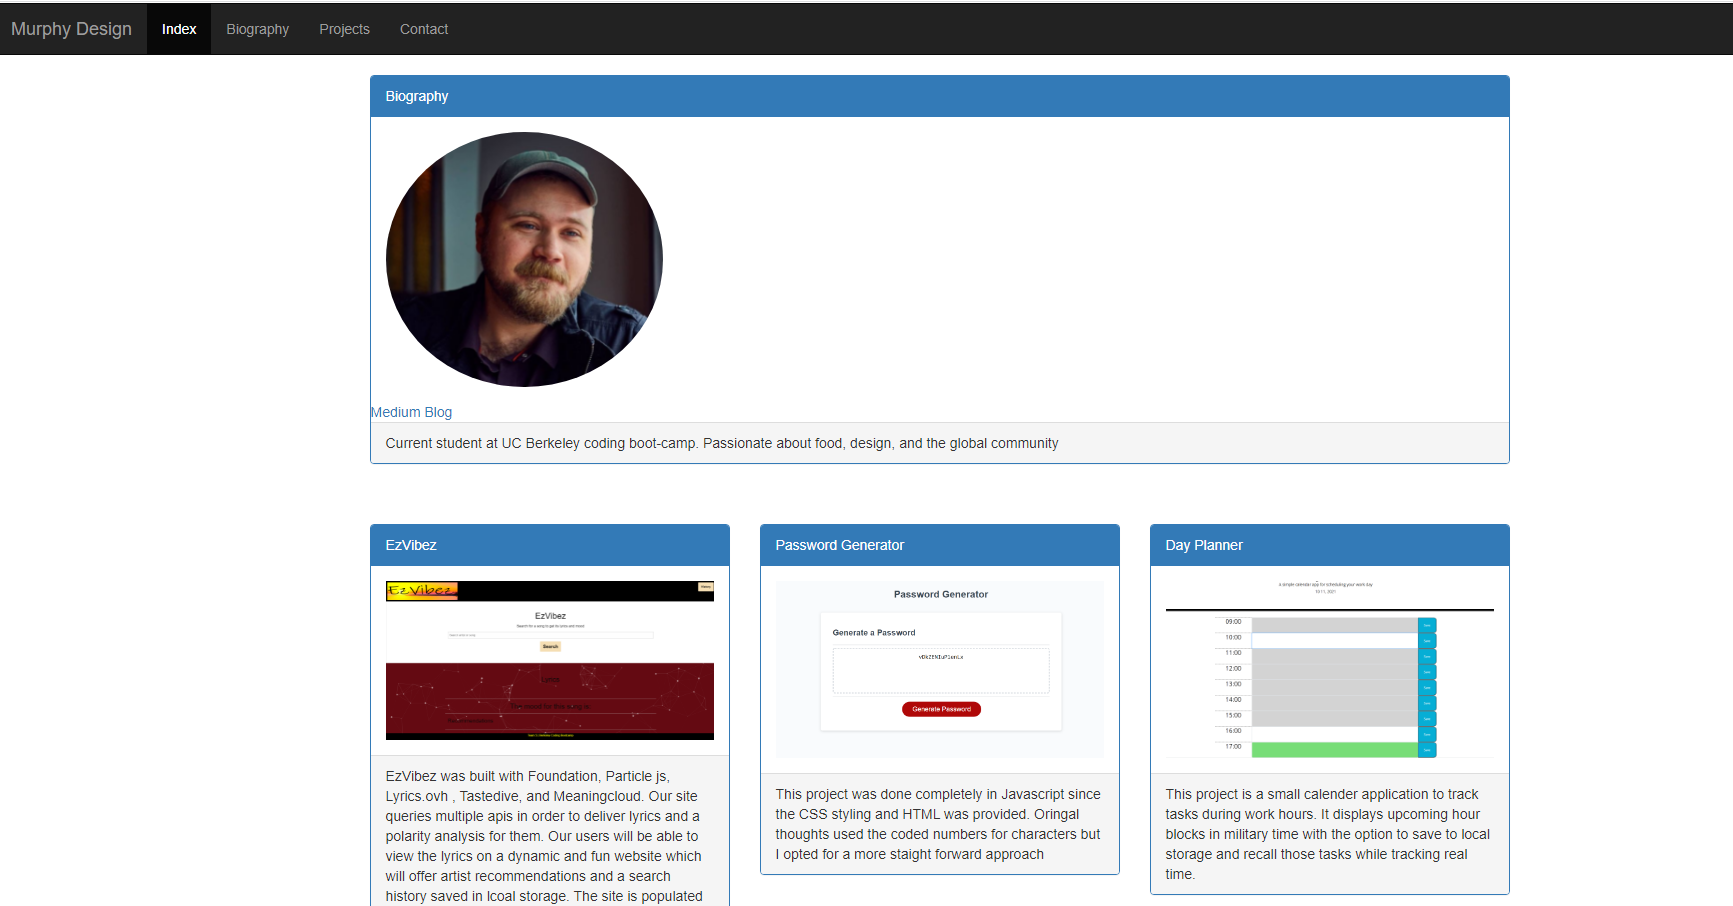
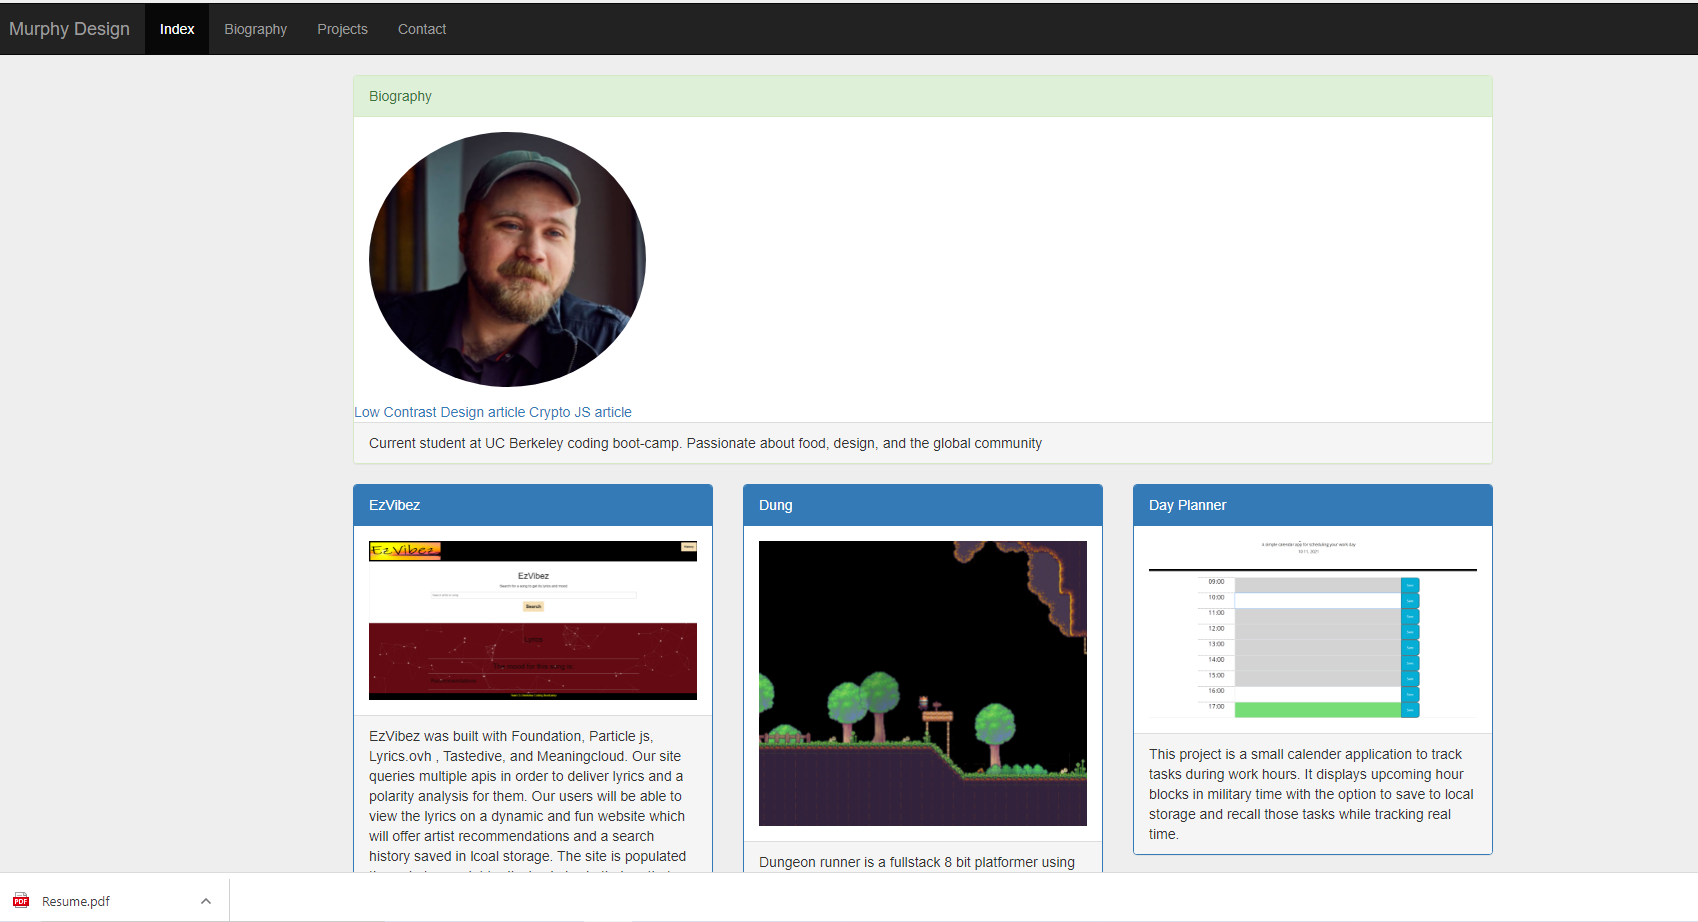
readme final

Changed region(s): [[0.0, 0.0, 0.9052, 1.0], [0.0, 0.9581, 0.0624, 0.989], [0.1249, 0.989, 0.1561, 1.0]]

diff --git a/home.html b/home.html
@@ -71,7 +71,7 @@
             </div>
             <div class="col-sm-4">
                 <div class="panel panel-primary">
-                    <div class="panel-heading">Dung</div>
+                    <div class="panel-heading">Dungeon Runner</div>
                     <div class="panel-body"><img src="./assets/dungeon.png" class="img-responsive"
                             style="width:100%" alt="Image"></div>
                     <div class="panel-footer">Dungeon runner is a fullstack 8 bit platformer using Phaser 3. It has an accosiated database for comments which was built with Sequelize, Node.JS, DOTENV, and Express. User information is protected using BCrypt and supports User signup and login for comment interaction. Many features are in developement but plans for additon game function and mulitplayer are ongoing.</div>

diff --git a/README.md b/README.md
@@ -1,2 +1,50 @@
-# Portfolio3
-Portfolio3
+# Portfolio 3
+## Table of contents
+
+- [General info](#General-Info)
+- [Technologies](#Technologies)
+- [Deployment](#Deployment)
+- [Code Overview](#Code-Overview)
+- [Summary](#Summary)
+
+
+## General-Info
+
+General description here
+This is a third portfolio demo with working buttons, pdf download and mobile first design. 
+
+
+Deployed link: 
+
+Landing page 
+
+![Image](assets/landingpage.png)
+
+## Technologies
+
+Project is created with:
+
+- [Bootstrap](https://getbootstrap.com/)
+
+## Containers
+
+![Image](assets/containers.png)
+- Bootstrap
+- HTML
+- CSS
+- Heroku
+
+## Deployment
+This page is deployed on Heroku.
+https://radiant-taiga-25897.herokuapp.com/
+
+
+
+## Authors
+
+- Gavin Murphy
+
+
+## License
+
+- Open Source
